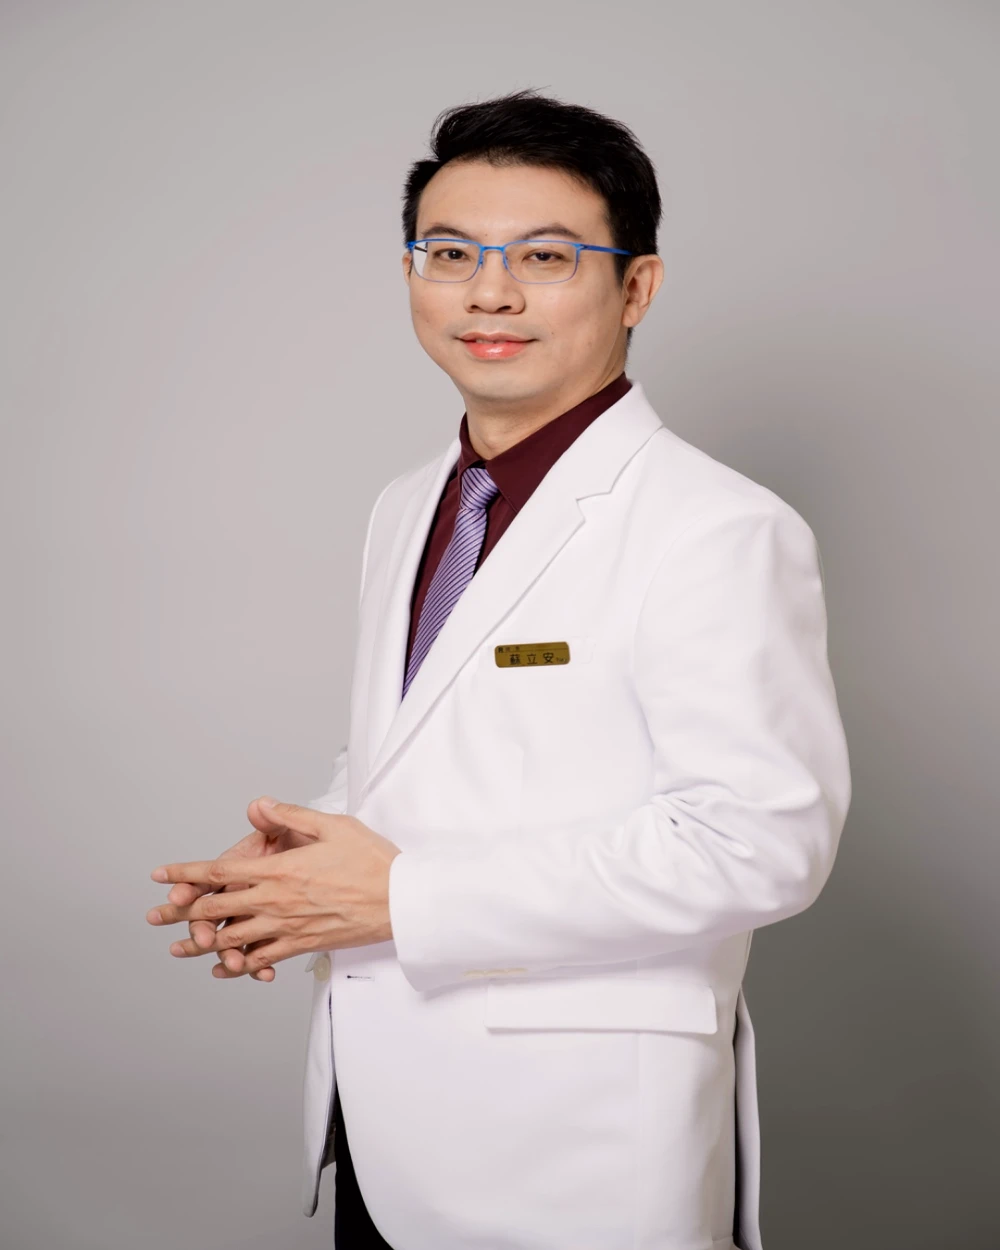
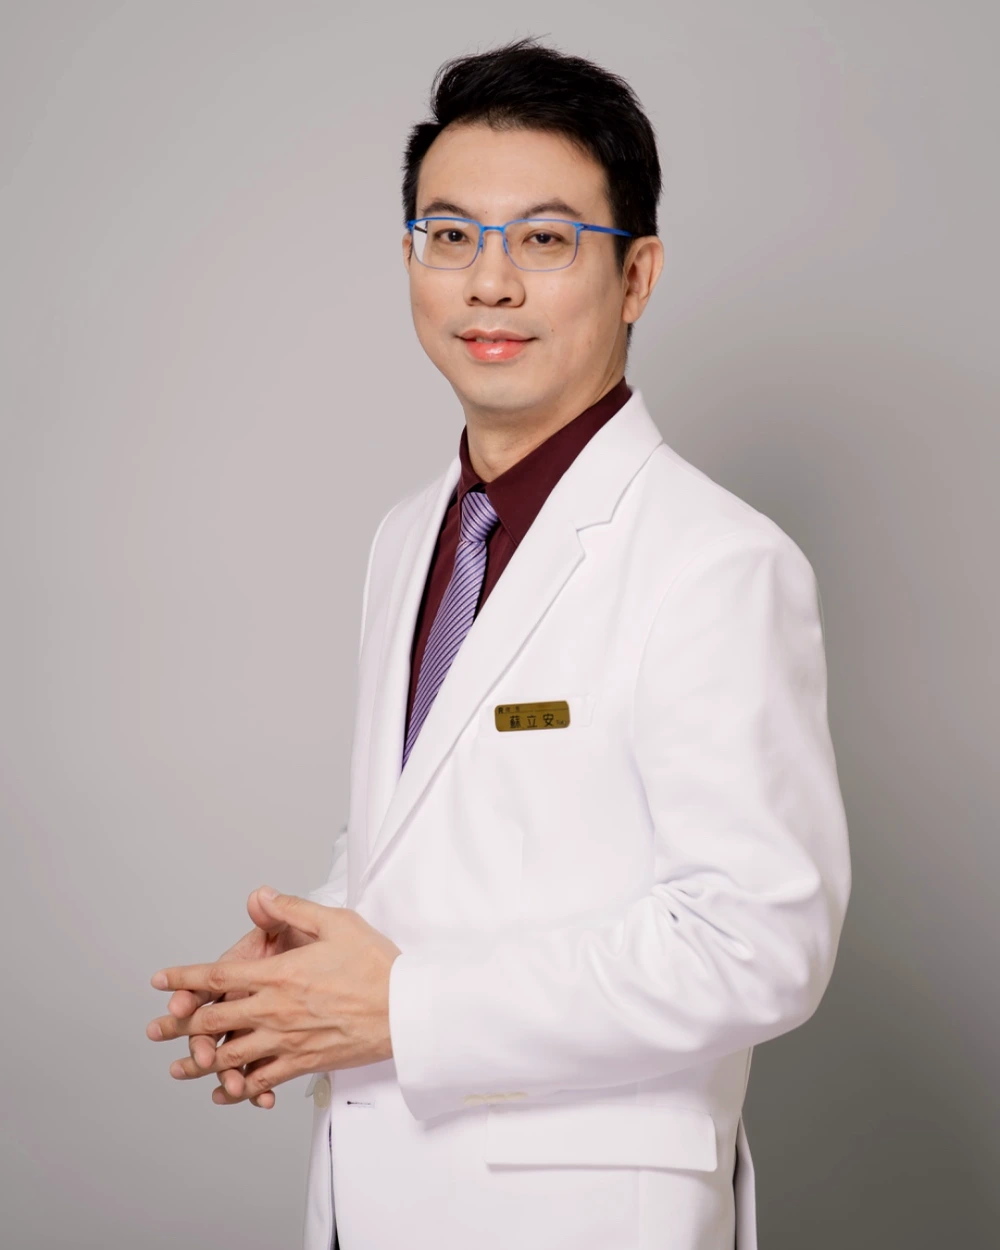
Fix founder portrait crop, remove from home page, add background/training section and ten IV protocols

Changed region(s): [[0.124, 0.0312, 0.868, 1.0], [0.868, 0.7176, 1.0, 0.8736], [0.341, 0.4368, 0.372, 0.468]]

diff --git a/iv-therapy.html b/iv-therapy.html
@@ -55,49 +55,81 @@
           <article class="card">
             <img src="img/iv-vials.webp" alt="Three amber ampoules on a brushed gold tray">
             <div class="card__body">
-              <span class="card__label">Foundation</span>
-              <h3>Hydration</h3>
-              <p>Fluids, electrolytes and essential vitamins. The baseline reset after travel, heat or a heavy week.</p>
+              <span class="card__label">01 &middot; Foundation</span>
+              <h3>Anti-Aging Drip</h3>
+              <p>Our entry formula for antioxidant support and everyday free-radical clearance.</p>
             </div>
           </article>
           <article class="card">
             <img src="img/iv-glow.webp" alt="A luminous pearl-white vial with a gold cap on jade stone">
             <div class="card__body">
-              <span class="card__label">Immunity</span>
-              <h3>Immune Support</h3>
-              <p>A high-dose vitamin C and mineral protocol, used around travel and seasonal illness.</p>
+              <span class="card__label">02 &middot; Foundation</span>
+              <h3>Premium Anti-Aging Drip</h3>
+              <p>An amino-acid-based version of our foundation formula, for periods of depletion.</p>
+            </div>
+          </article>
+          <article class="card">
+            <img src="img/abstract-purify.webp" alt="Abstract golden fluid separating from dark fluid through a translucent membrane">
+            <div class="card__body">
+              <span class="card__label">03 &middot; Clearance</span>
+              <h3>Detox Drip</h3>
+              <p>Metabolic and hepatic support, closing with a slow, separately administered antioxidant infusion.</p>
             </div>
           </article>
           <article class="card">
             <img src="img/iv-plan.webp" alt="A physician's desk with a hand-drawn chart, pen and clear vials">
             <div class="card__body">
-              <span class="card__label">Vitality</span>
-              <h3>Energy &amp; Metabolic</h3>
-              <p>B-complex, amino acids and cofactors for people who feel flat rather than unwell.</p>
+              <span class="card__label">04 &middot; Clearance</span>
+              <h3>Advanced Antioxidant &amp; Detox</h3>
+              <p>An escalated course for accumulated stress, sleep loss and prolonged fatigue.</p>
             </div>
           </article>
           <article class="card">
             <img src="img/reception.webp" alt="A jade marble counter with a white orchid in a matte black vase">
             <div class="card__body">
-              <span class="card__label">Radiance</span>
-              <h3>Skin &amp; Radiance</h3>
-              <p>A glutathione-based protocol for tone, clarity and evenness, run as a short course.</p>
+              <span class="card__label">05 &middot; Foundation</span>
+              <h3>High-Dose Vitamin C</h3>
+              <p>A concentrated vitamin C infusion, dosed and paced under physician supervision.</p>
+            </div>
+          </article>
+          <article class="card">
+            <img src="img/iv-myers.webp" alt="A single amber ampoule with a gold foil band on dark navy velvet">
+            <div class="card__body">
+              <span class="card__label">06 &middot; Foundation</span>
+              <h3>Myers&rsquo; Cocktail</h3>
+              <p>The classic B-vitamin, vitamin C, magnesium and zinc infusion.</p>
+            </div>
+          </article>
+          <article class="card">
+            <img src="img/iv-neuro.webp" alt="Golden light refracting through an intravenous fluid bag against dark jade">
+            <div class="card__body">
+              <span class="card__label">07 &middot; Neurology</span>
+              <h3>NeuroVitality Drip</h3>
+              <p>A two-stage neuro-support protocol, offered after individual medical assessment.</p>
             </div>
           </article>
           <article class="card">
             <img src="img/iv-rest.webp" alt="An ivory cashmere throw over a dark leather treatment chair">
             <div class="card__body">
-              <span class="card__label">Recovery</span>
-              <h3>Recovery</h3>
-              <p>Post-illness, post-exertion and post-procedure support, paced over consecutive days.</p>
+              <span class="card__label">08 &middot; Recovery</span>
+              <h3>Sport Recovery Drip</h3>
+              <p>A fast amino-acid infusion for athletes and heavy training loads.</p>
             </div>
           </article>
           <article class="card">
-            <img src="img/abstract-laser.webp" alt="A fine golden beam of light refracting through dark jade fluid">
+            <img src="img/iv-recovery2.webp" alt="A lemon slice and a small glass dropper bottle on dark jade marble">
             <div class="card__body">
-              <span class="card__label">Neurology</span>
-              <h3>Neuro Support</h3>
-              <p>A Cerebrolysin protocol, offered only after individual medical assessment.</p>
+              <span class="card__label">09 &middot; Recovery</span>
+              <h3>Post-Hangover Drip</h3>
+              <p>Fluid replacement followed by slower antioxidant support for hepatic recovery.</p>
+            </div>
+          </article>
+          <article class="card">
+            <img src="img/iv-omega.webp" alt="Golden droplets suspended in dark navy fluid">
+            <div class="card__body">
+              <span class="card__label">10 &middot; Foundation</span>
+              <h3>Omega Drip</h3>
+              <p>An omega-3 emulsion with vitamin C and B-complex, for cerebral and cardiac support.</p>
             </div>
           </article>
         </div>

diff --git a/founder.html b/founder.html
@@ -59,6 +59,23 @@
 
     <section class="band band--navy band--hair">
       <div class="wrap">
+        <div class="band__head reveal narrow">
+          <p class="eyebrow">Background</p>
+          <h2>Trained where the margin for error is smallest.</h2>
+          <p class="lead">Board certified in internal medicine and precision medicine in Taiwan, Dr. Su trained in critical care, chest medicine and emergency medicine before pursuing cellular medicine in Japan and precision medicine at Harvard Medical School.</p>
+        </div>
+        <hr class="rule">
+        <div class="facts reveal">
+          <div><p class="fact__k">Taiwan</p><p class="fact__v">Board certified, Internal Medicine and Precision Medicine.</p></div>
+          <div><p class="fact__k">Japan</p><p class="fact__v">Cellular medicine training in dendritic and NK cell therapy.</p></div>
+          <div><p class="fact__k">Harvard</p><p class="fact__v">Precision medicine and immuno-oncology study.</p></div>
+          <div><p class="fact__k">Memberships</p><p class="fact__v">A4M, ACP and IASCT &mdash; anti-aging and stem cell medicine.</p></div>
+        </div>
+      </div>
+    </section>
+
+    <section class="band band--pearl band--hair">
+      <div class="wrap">
         <div class="facts reveal">
           <div><p class="fact__k">Taipei</p><p class="fact__v">Base of practice and clinical training for the network.</p></div>
           <div><p class="fact__k">Three</p><p class="fact__v">Languages spoken with patients: Mandarin, English, Myanmar.</p></div>

diff --git a/index.html b/index.html
@@ -147,15 +147,14 @@
     </section>
 
     <section class="band band--navy">
-      <div class="wrap founder reveal">
-        <div class="portrait"><img src="img/founder-portrait.webp" alt="Dr. Tony Su, founder and medical director of R2-IWAA"></div>
-        <div>
+      <div class="wrap">
+        <div class="band__head reveal" style="max-width:640px">
           <p class="eyebrow">Founder</p>
           <h2>Dr. Tony Su</h2>
           <hr class="rule">
           <p class="lead">Founder and Medical Director. He leads every clinical protocol at R2-IWAA and trains the teams that deliver it.</p>
-          <div class="founder__meta"><span>Mandarin</span><span>English</span><span>Myanmar</span></div>
-          <a class="arrowlink" href="founder.html" style="margin-top:2rem">About Dr. Su &rarr;</a>
+          <div class="founder__meta" style="margin-top:1.4rem"><span>Mandarin</span><span>English</span><span>Myanmar</span></div>
+          <a class="arrowlink" href="founder.html" style="margin-top:2rem;display:inline-flex">About Dr. Su &rarr;</a>
         </div>
       </div>
     </section>

diff --git a/build.py b/build.py
@@ -223,15 +223,14 @@ home = f"""    <section class="hero">
     </section>
 
     <section class="band band--navy">
-      <div class="wrap founder reveal">
-        <div class="portrait"><img src="img/founder-portrait.webp" alt="Dr. Tony Su, founder and medical director of R2-IWAA"></div>
-        <div>
+      <div class="wrap">
+        <div class="band__head reveal" style="max-width:640px">
           <p class="eyebrow">Founder</p>
           <h2>Dr. Tony Su</h2>
           <hr class="rule">
           <p class="lead">Founder and Medical Director. He leads every clinical protocol at R2-IWAA and trains the teams that deliver it.</p>
-          <div class="founder__meta"><span>Mandarin</span><span>English</span><span>Myanmar</span></div>
-          <a class="arrowlink" href="founder.html" style="margin-top:2rem">About Dr. Su &rarr;</a>
+          <div class="founder__meta" style="margin-top:1.4rem"><span>Mandarin</span><span>English</span><span>Myanmar</span></div>
+          <a class="arrowlink" href="founder.html" style="margin-top:2rem;display:inline-flex">About Dr. Su &rarr;</a>
         </div>
       </div>
     </section>
@@ -269,12 +268,16 @@ home = f"""    <section class="hero">
 # ---------------------------------------------------------------- iv therapy
 
 iv_cards = [
-    ("Foundation", "Hydration", "Fluids, electrolytes and essential vitamins. The baseline reset after travel, heat or a heavy week.", "iv-vials.webp", "Three amber ampoules on a brushed gold tray"),
-    ("Immunity", "Immune Support", "A high-dose vitamin C and mineral protocol, used around travel and seasonal illness.", "iv-glow.webp", "A luminous pearl-white vial with a gold cap on jade stone"),
-    ("Vitality", "Energy &amp; Metabolic", "B-complex, amino acids and cofactors for people who feel flat rather than unwell.", "iv-plan.webp", "A physician's desk with a hand-drawn chart, pen and clear vials"),
-    ("Radiance", "Skin &amp; Radiance", "A glutathione-based protocol for tone, clarity and evenness, run as a short course.", "reception.webp", "A jade marble counter with a white orchid in a matte black vase"),
-    ("Recovery", "Recovery", "Post-illness, post-exertion and post-procedure support, paced over consecutive days.", "iv-rest.webp", "An ivory cashmere throw over a dark leather treatment chair"),
-    ("Neurology", "Neuro Support", "A Cerebrolysin protocol, offered only after individual medical assessment.", "abstract-laser.webp", "A fine golden beam of light refracting through dark jade fluid"),
+    ("01 &middot; Foundation", "Anti-Aging Drip", "Our entry formula for antioxidant support and everyday free-radical clearance.", "iv-vials.webp", "Three amber ampoules on a brushed gold tray"),
+    ("02 &middot; Foundation", "Premium Anti-Aging Drip", "An amino-acid-based version of our foundation formula, for periods of depletion.", "iv-glow.webp", "A luminous pearl-white vial with a gold cap on jade stone"),
+    ("03 &middot; Clearance", "Detox Drip", "Metabolic and hepatic support, closing with a slow, separately administered antioxidant infusion.", "abstract-purify.webp", "Abstract golden fluid separating from dark fluid through a translucent membrane"),
+    ("04 &middot; Clearance", "Advanced Antioxidant &amp; Detox", "An escalated course for accumulated stress, sleep loss and prolonged fatigue.", "iv-plan.webp", "A physician's desk with a hand-drawn chart, pen and clear vials"),
+    ("05 &middot; Foundation", "High-Dose Vitamin C", "A concentrated vitamin C infusion, dosed and paced under physician supervision.", "reception.webp", "A jade marble counter with a white orchid in a matte black vase"),
+    ("06 &middot; Foundation", "Myers&rsquo; Cocktail", "The classic B-vitamin, vitamin C, magnesium and zinc infusion.", "iv-myers.webp", "A single amber ampoule with a gold foil band on dark navy velvet"),
+    ("07 &middot; Neurology", "NeuroVitality Drip", "A two-stage neuro-support protocol, offered after individual medical assessment.", "iv-neuro.webp", "Golden light refracting through an intravenous fluid bag against dark jade"),
+    ("08 &middot; Recovery", "Sport Recovery Drip", "A fast amino-acid infusion for athletes and heavy training loads.", "iv-rest.webp", "An ivory cashmere throw over a dark leather treatment chair"),
+    ("09 &middot; Recovery", "Post-Hangover Drip", "Fluid replacement followed by slower antioxidant support for hepatic recovery.", "iv-recovery2.webp", "A lemon slice and a small glass dropper bottle on dark jade marble"),
+    ("10 &middot; Foundation", "Omega Drip", "An omega-3 emulsion with vitamin C and B-complex, for cerebral and cardiac support.", "iv-omega.webp", "Golden droplets suspended in dark navy fluid"),
 ]
 
 cards_html = ""
@@ -423,6 +426,23 @@ founder = f"""    <section class="hero hero--page">
     </section>
 
     <section class="band band--navy band--hair">
+      <div class="wrap">
+        <div class="band__head reveal narrow">
+          <p class="eyebrow">Background</p>
+          <h2>Trained where the margin for error is smallest.</h2>
+          <p class="lead">Board certified in internal medicine and precision medicine in Taiwan, Dr. Su trained in critical care, chest medicine and emergency medicine before pursuing cellular medicine in Japan and precision medicine at Harvard Medical School.</p>
+        </div>
+        <hr class="rule">
+        <div class="facts reveal">
+          <div><p class="fact__k">Taiwan</p><p class="fact__v">Board certified, Internal Medicine and Precision Medicine.</p></div>
+          <div><p class="fact__k">Japan</p><p class="fact__v">Cellular medicine training in dendritic and NK cell therapy.</p></div>
+          <div><p class="fact__k">Harvard</p><p class="fact__v">Precision medicine and immuno-oncology study.</p></div>
+          <div><p class="fact__k">Memberships</p><p class="fact__v">A4M, ACP and IASCT &mdash; anti-aging and stem cell medicine.</p></div>
+        </div>
+      </div>
+    </section>
+
+    <section class="band band--pearl band--hair">
       <div class="wrap">
         <div class="facts reveal">
           <div><p class="fact__k">Taipei</p><p class="fact__v">Base of practice and clinical training for the network.</p></div>
